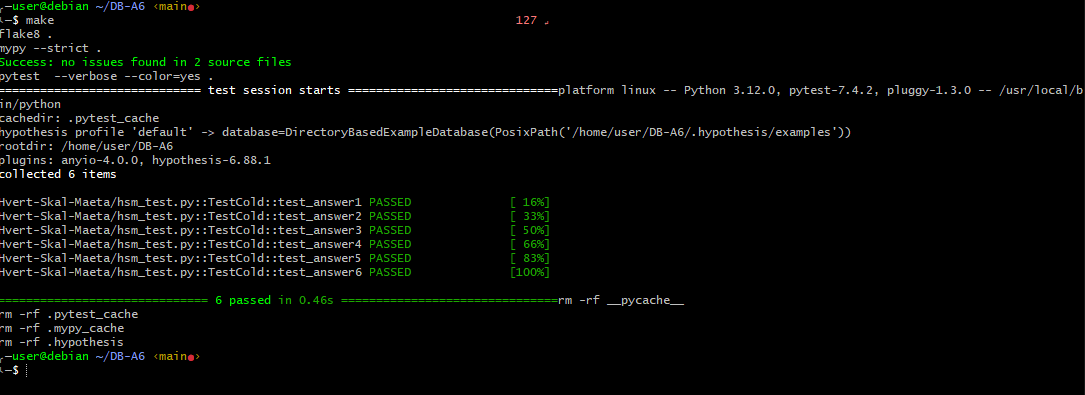
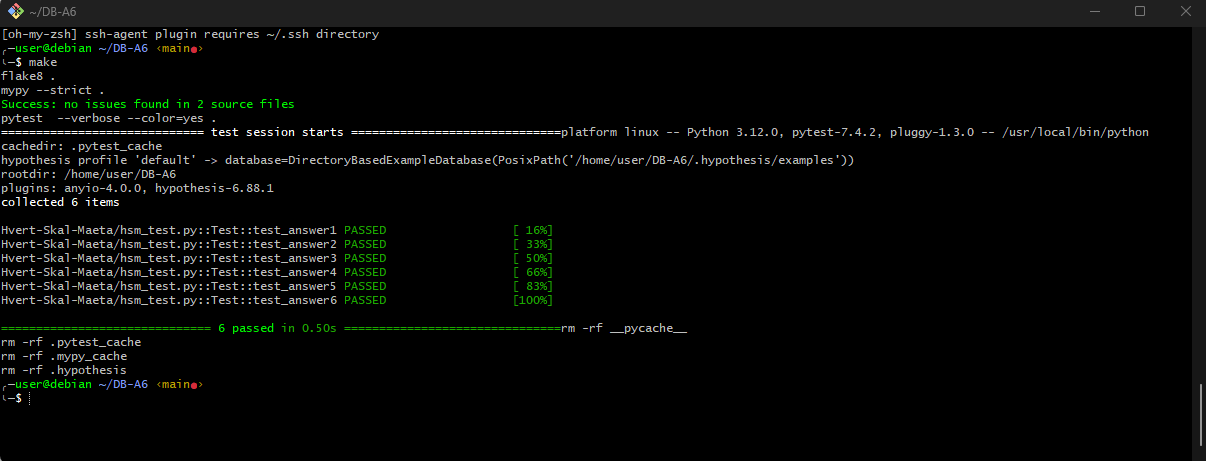
final

diff --git a/Hvert-Skal-Maeta/hsm_test.py b/Hvert-Skal-Maeta/hsm_test.py
@@ -2,7 +2,7 @@ import unittest
 from hsm import ans, city_distances
 
 
-class TestCold(unittest.TestCase):
+class Test(unittest.TestCase):
     def test_answer1(self) -> None:
         self.assertEqual(
             ans('Reykjavik', city_distances),
